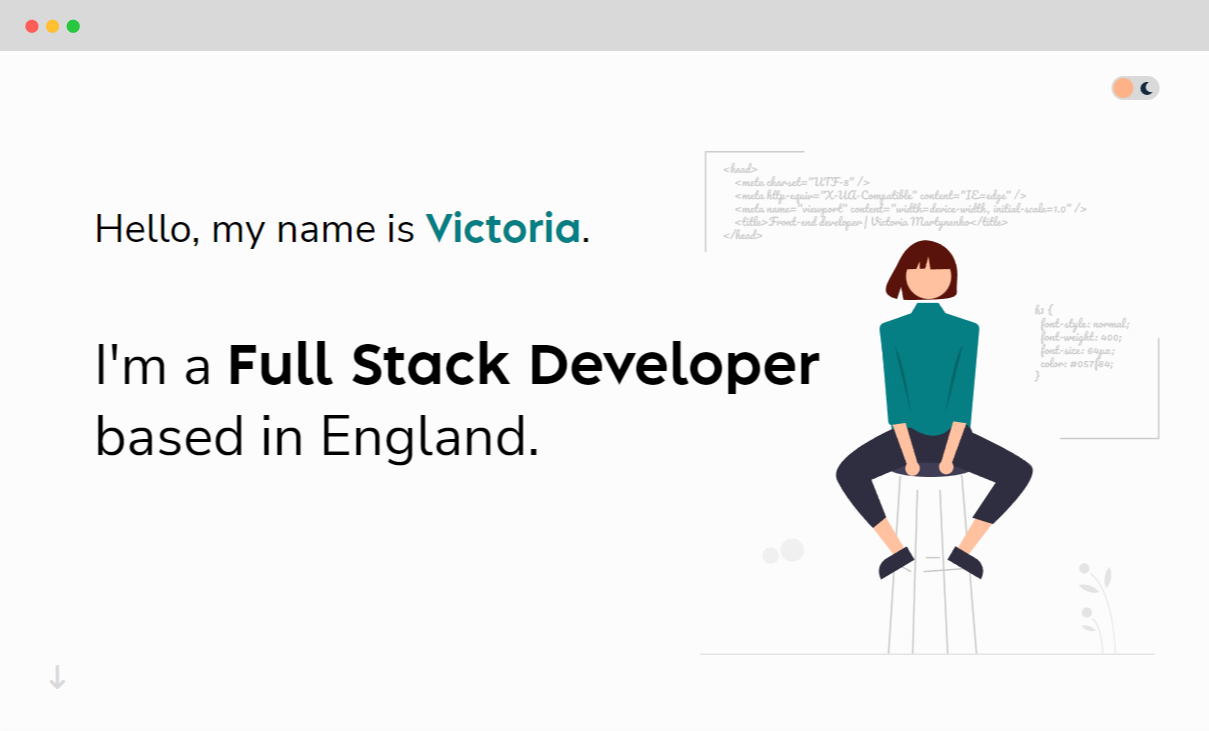
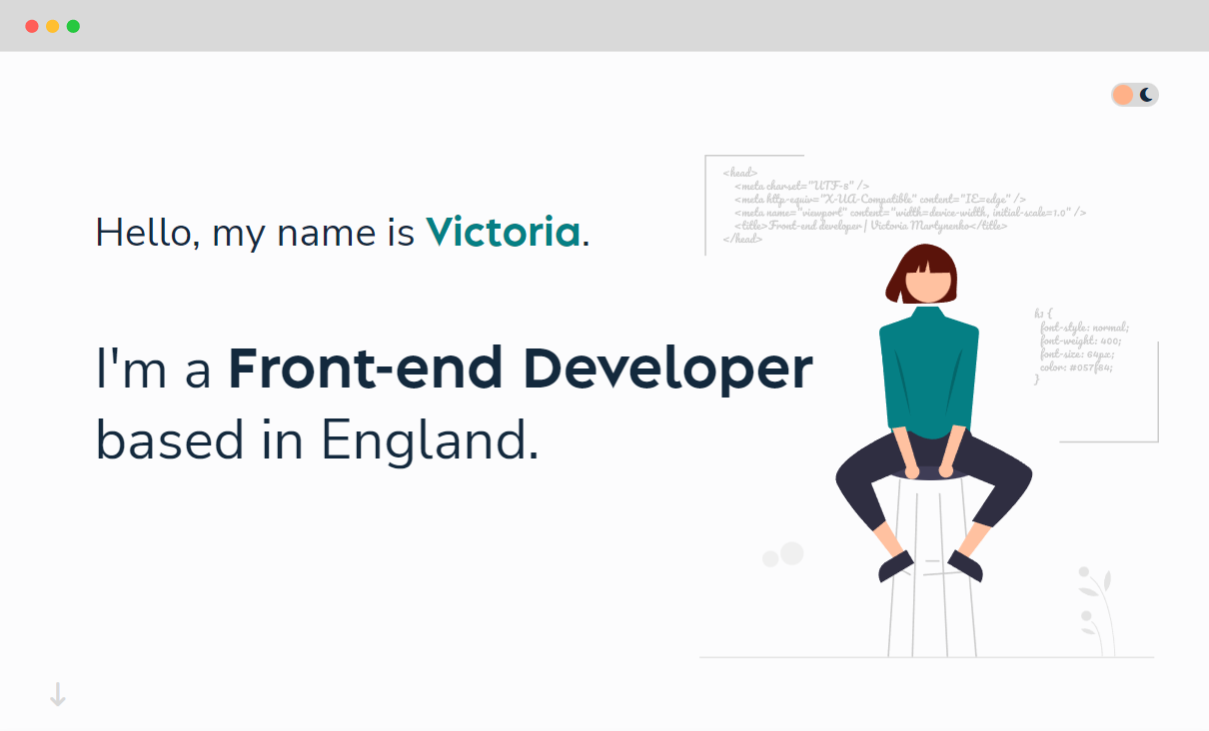
Changed portfolio project img, edited about me page

diff --git a/src/about-me-page/AboutMe.js b/src/about-me-page/AboutMe.js
@@ -48,8 +48,9 @@ export default function AboutMe() {
             </p>
             <p>
               I completed the SheCodes courses towards{" "}
-              <b>Full Stack Developer</b> and completed several projects during
-              the course, which can be viewed in more detail on this page.
+              <b>Front-end Web Developer</b> and completed several projects
+              during the course, which can be viewed in more detail on this
+              page.
             </p>
           </div>
         </div>
